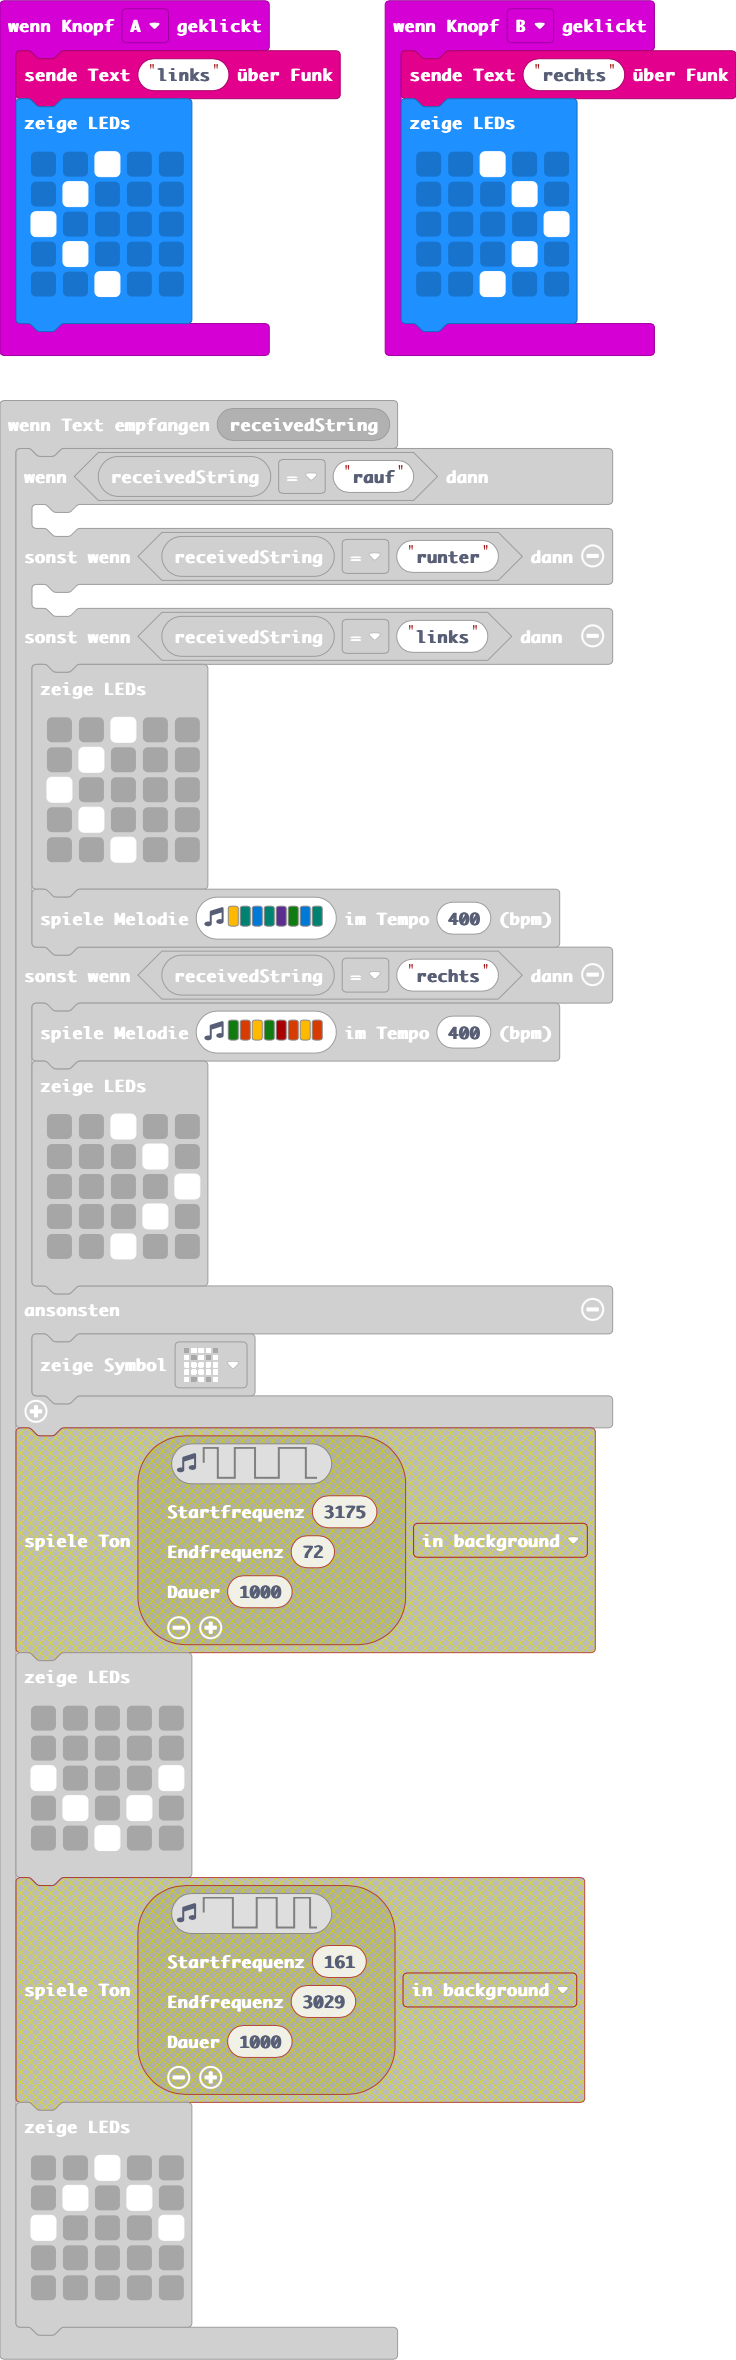
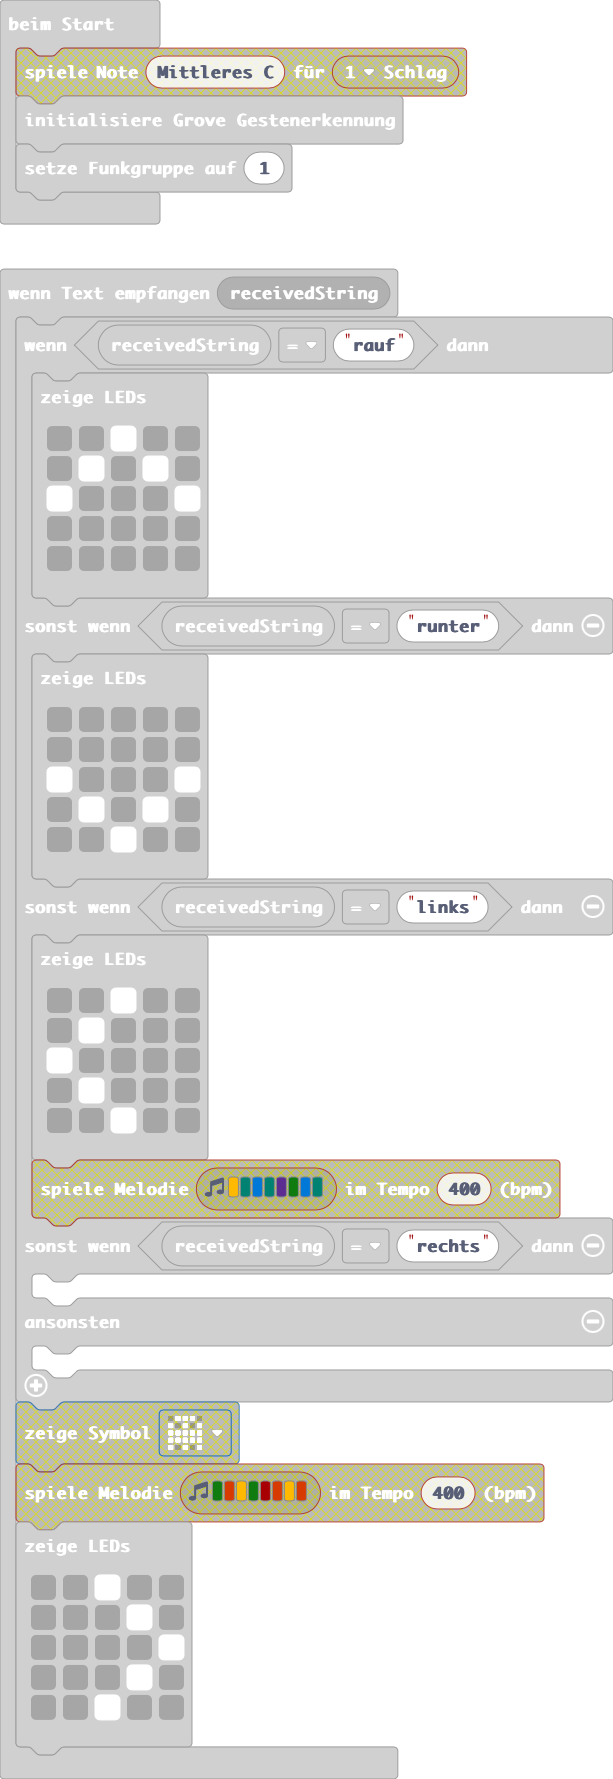
Aktualisiere main.blocks, main.ts

diff --git a/main.ts b/main.ts
@@ -96,9 +96,7 @@ radio.onReceivedString(function (receivedString) {
             . # . . .
             . . # . .
             `)
-        music.playMelody("A F E F D G E F ", 400)
     } else if (receivedString == "rechts") {
-        music.playMelody("G B A G C5 B A B ", 400)
         basic.showLeds(`
             . . # . .
             . . . # .
@@ -107,7 +105,7 @@ radio.onReceivedString(function (receivedString) {
             . . # . .
             `)
     } else {
-        basic.showIcon(IconNames.Ghost)
+    	
     }
 })
 input.onButtonPressed(Button.B, function () {
@@ -143,6 +141,5 @@ grove.onGesture(GroveGesture.Backward, function () {
         . . . . .
         `)
 })
-music.playTone(262, music.beat(BeatFraction.Whole))
 grove.initGesture()
 radio.setGroup(1)
